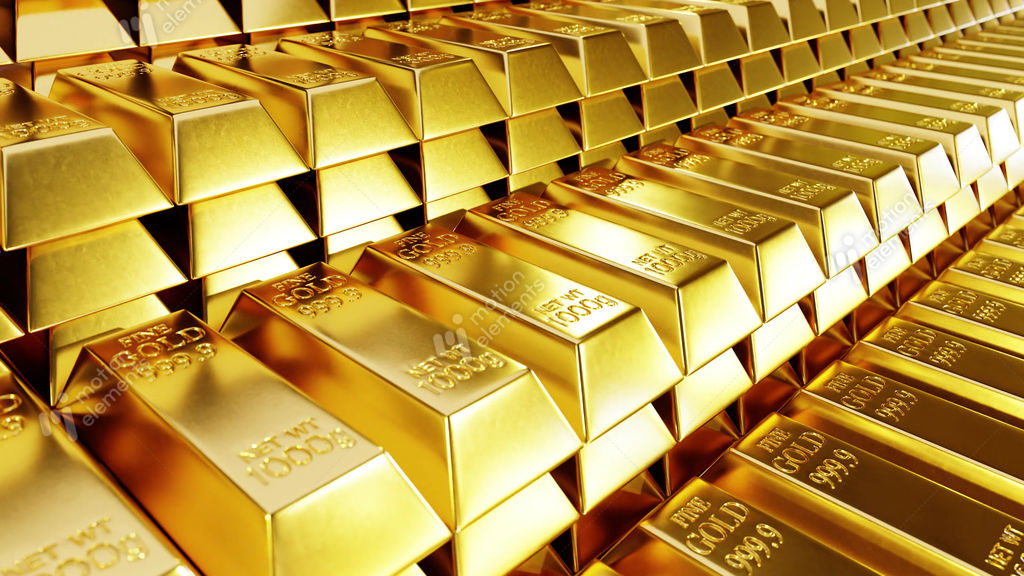
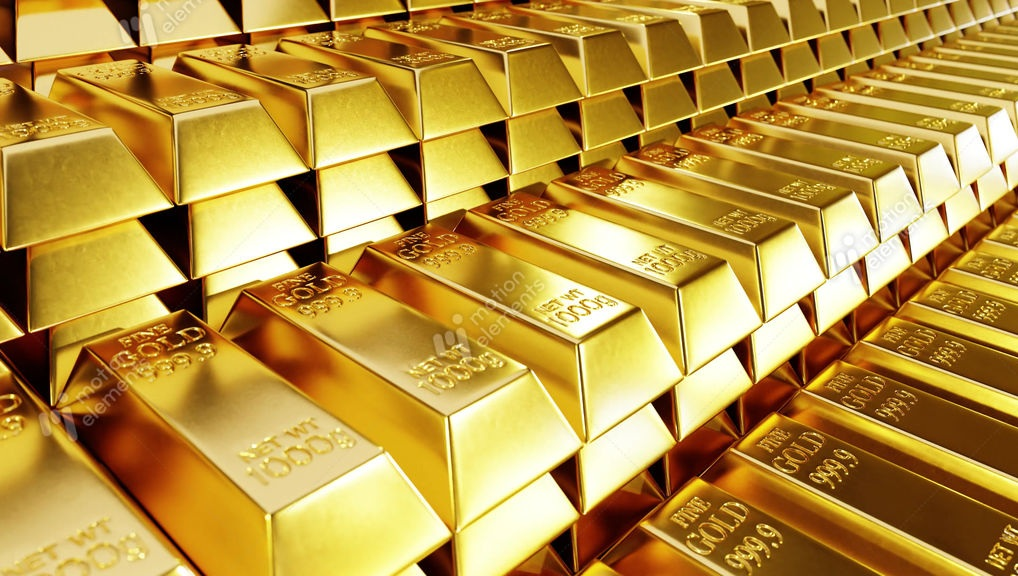
Live Market Update

diff --git a/my_details.py b/my_details.py
@@ -1,5 +1,5 @@
 GMAIL_USER = "[email redacted]"
-GMAIL_PASS = "onlr yjif hszk hdcv"  # Use app password, not your main password
+GMAIL_PASS = "onlr yjif hszk hdcv"   # Use app password, not your main password
 full_name  = "Pradeep Kumar Barolia"
 location   = "Flat No. 8 B, Block - C, D. D. A. Slum Flats, Mangolpuri, New Delhi 110083, INDIA"
 email      = "[email redacted]"

diff --git a/Corrections.py b/Corrections.py
@@ -1,6 +1,7 @@
 # import pandas as pd
 # from datetime import datetime
 # import os
+
 #
 # # -------- FILE PATH --------
 # FILE_PATH = r"D:\prdp\Data Analytics\Data Analytics\Live-Market\Correction.csv"

diff --git a/Lenden Auto Fetch Details.py b/Lenden Auto Fetch Details.py
@@ -14,6 +14,7 @@ from my_details import (
     GMAIL_PASS
 )
 
+
 # =====================================
 # CONFIGURATION
 # =====================================

diff --git a/Live-Market - Copy.py b/Live-Market - Copy.py
@@ -220,7 +220,6 @@ def main():
     except KeyboardInterrupt:
         print("\nStopped by user")
 
-
 # -------- RUN --------
 if __name__ == "__main__":
     main()

diff --git a/Live-Market-old.py b/Live-Market-old.py
@@ -14,7 +14,6 @@ FILE_PATH = r"D:\prdp\Data Analytics\Live-Market\Live-Market.csv"
 FETCH_INTERVAL = 300  # seconds
 RETRY_LIMIT = 5
 
-
 # -------- HELPERS --------
 def safe_fetch(ticker):
     """Fetches the latest live close price directly from Yahoo Finance API"""

diff --git a/Live-Market.py b/Live-Market.py
@@ -14,7 +14,6 @@ FILE_PATH = r"D:\prdp\Data Analytics\Live-Market\Live-Market.csv"
 FETCH_INTERVAL = 300  # seconds
 RETRY_LIMIT = 5
 
-
 # -------- HELPERS --------
 def safe_fetch(ticker):
     """Fetches the latest live close price directly from Yahoo Finance API"""

diff --git a/Silver-ET.py b/Silver-ET.py
@@ -4,6 +4,7 @@ from selenium.webdriver.common.by import By
 from selenium.webdriver.chrome.options import Options
 import time
 
+
 # Set up Chrome options
 options = Options()
 options.add_argument("--headless")  # run in background